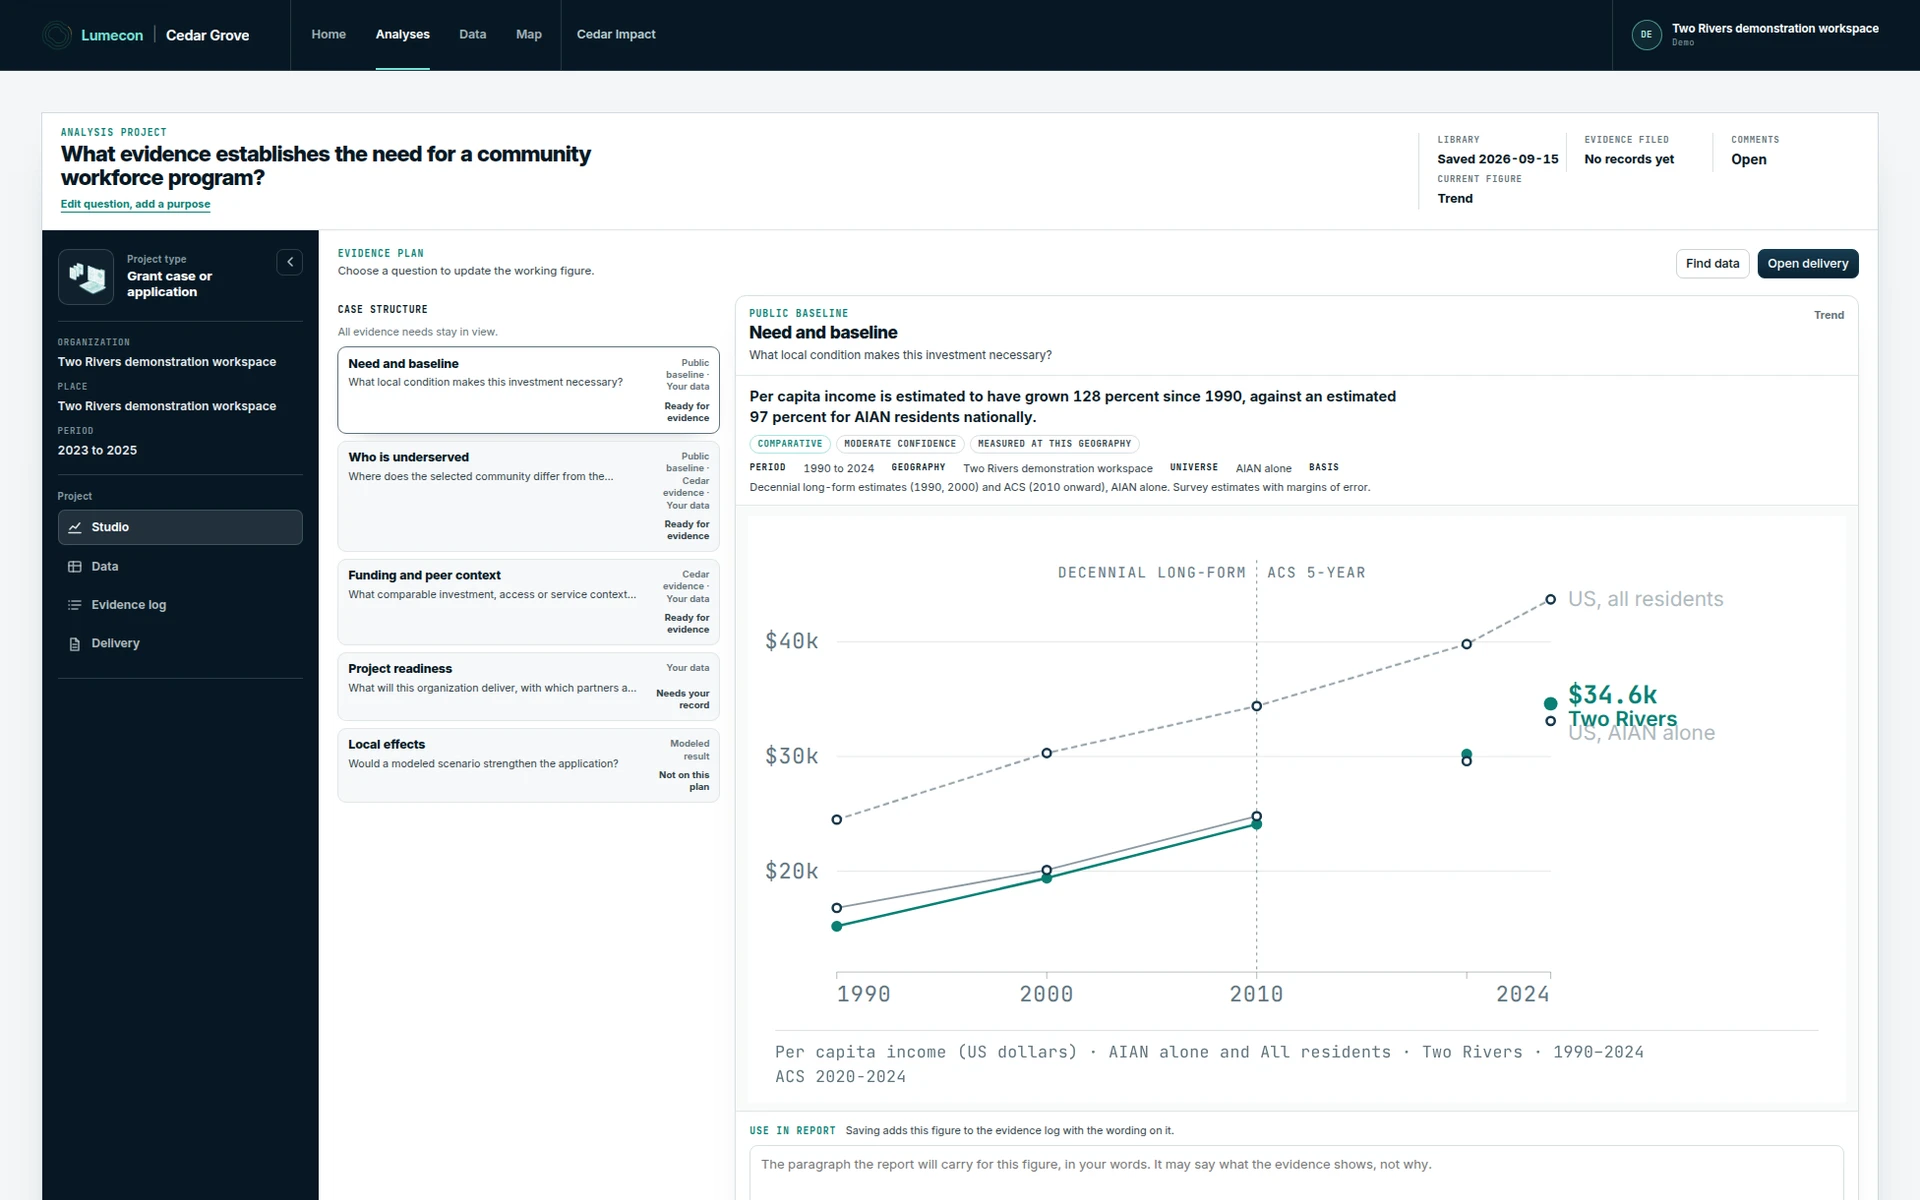
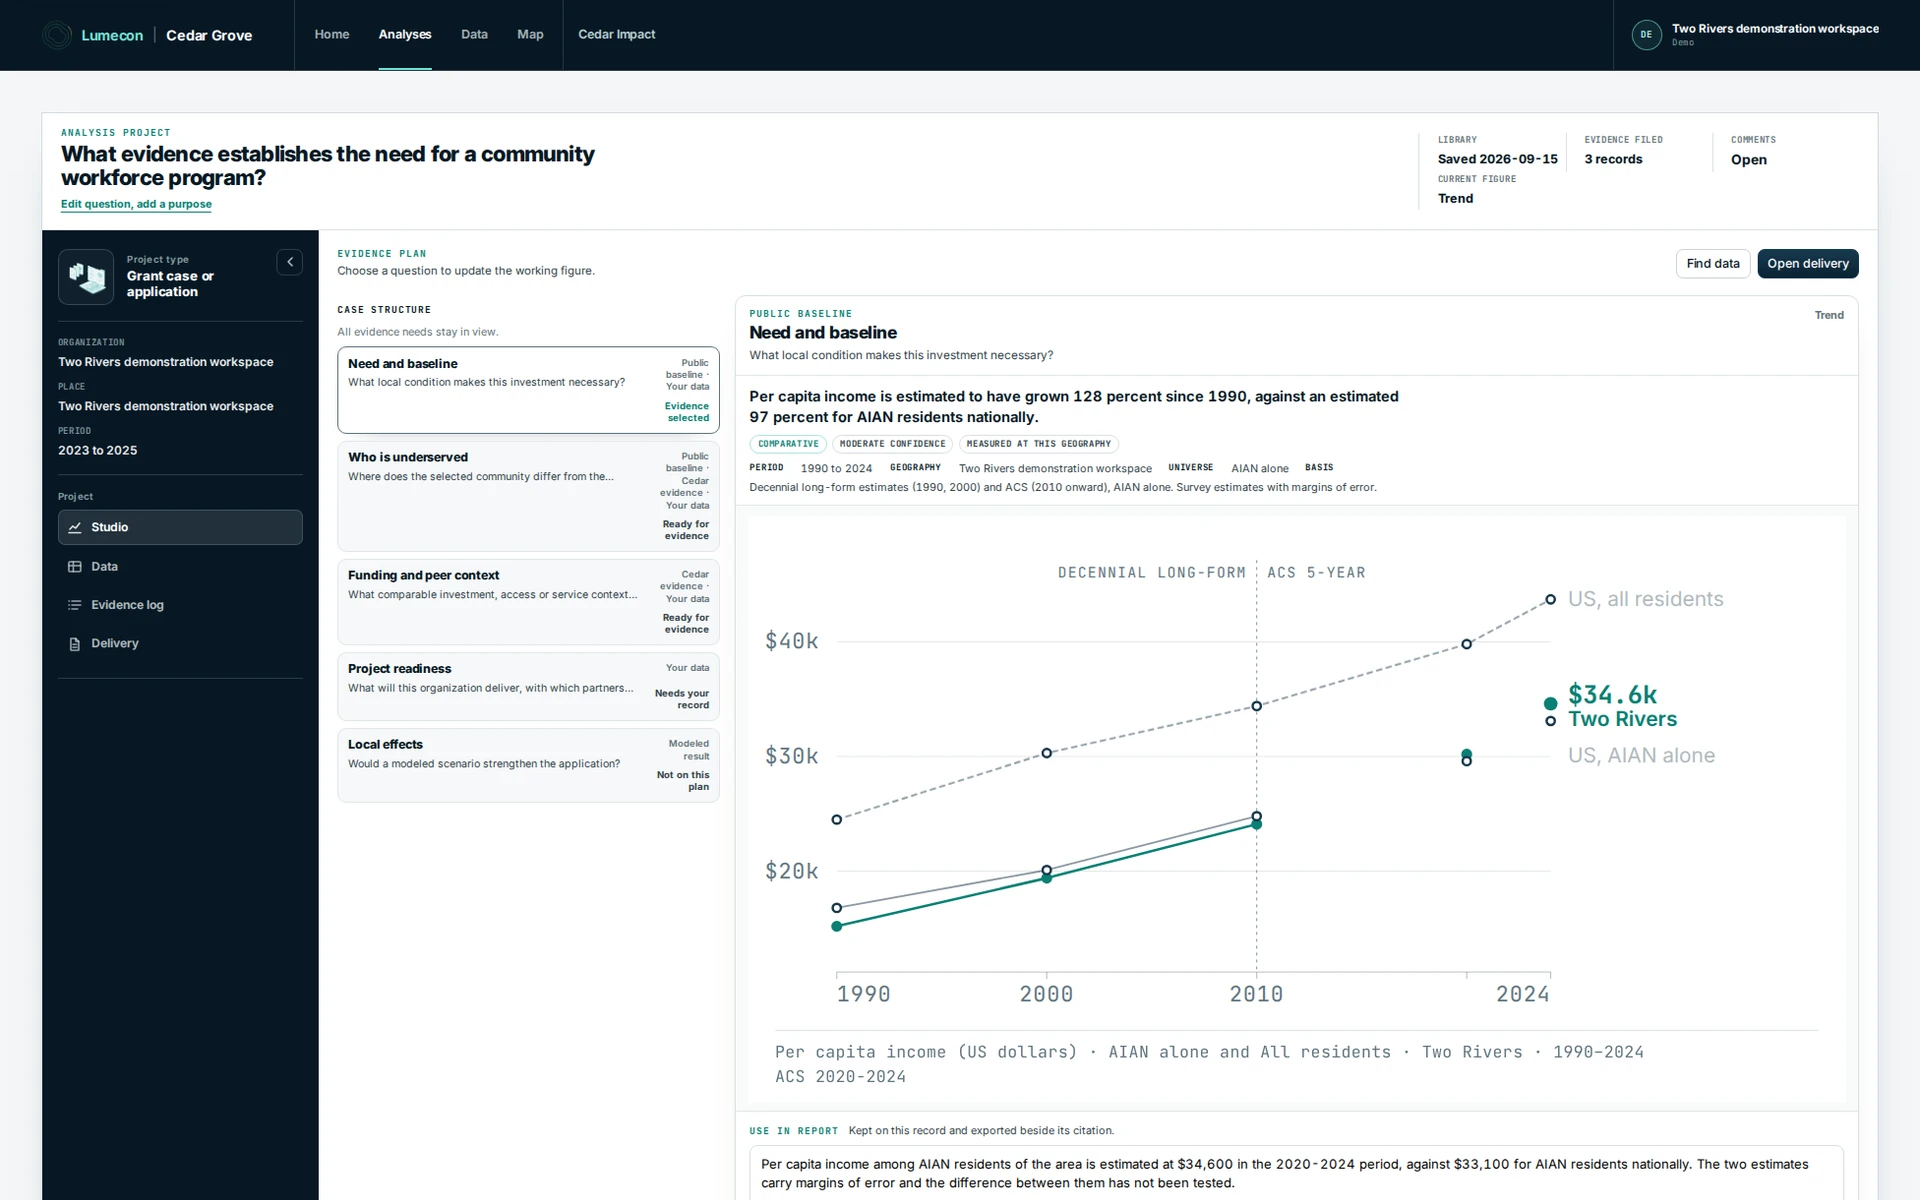
Cedar Grove page: the four captures are four surfaces, the frames stay round, and the home tour is Cedar Impact's
The captures. The map frame is recaptured with a measure selected: the
map filled by labor force participation, a readout anchored to a geography,
the legend with its breakpoints and count, and the same reading in the
context card. The last act was the bottom half of the worktable, which put
the one per-capita-income chart on the page twice as if it were two
products; it is the evidence log now (grove-record), a different surface,
with four filed records carrying their layer, source, period, geography,
role, claim class and limitation, three of them pinned and placed under a
report requirement. The hero and the home frame are recaptured from the
same session, so the trend figure's end labels no longer collide. Every
caption still says "Shown with sample data." and the manifest is the one
the capture wrote.

The corners. Every frame is 14px on the product pages and the owner still
saw square ones. `overflow: hidden` with a border radius rounds a frame in
most engines and not in every state: a frame that lifts on hover is
transformed, and WebKit has been known to drop the clipping for the
duration. So the frames are cut with a clip-path as well, which survives a
transform everywhere, and the picture inside carries the frame's radius on
its own corners, top corners only where a caption sits under it. One
variable, --shot-radius, keeps the frame, its clip and its picture in step,
and /cedar sets it to its own panel radius so nothing there changes.
[…]

diff --git a/tests/smoke.spec.ts b/tests/smoke.spec.ts
@@ -1418,19 +1418,19 @@ test('cedar grove is named on the homepage, /cedar and /pricing beside its sibli
   // not caught up to it. Each names it exactly, in the place the sibling
   // products already appear, with the sibling's own treatment.
 
-  // Homepage: a tour row carrying the product label, the same row and label
-  // the Cedar Impact rows use, with one of Grove's own captures.
+  // Homepage: the product tour is Cedar Impact's, and Grove is not a row in
+  // it. It was, for a while, and a Grove frame under a heading about Impact's
+  // results read as a fourth Impact surface. Grove is named on the homepage
+  // by the nav and the footer, which the product-family test below covers.
   await page.goto('/', { waitUntil: 'domcontentloaded' });
-  const groveRow = page.locator('#tour-grove');
-  await expect(groveRow).toHaveCount(1);
-  await expect(groveRow.locator('.tour-row__product')).toHaveText('Cedar Grove');
-  await expect(groveRow.locator('img')).toHaveAttribute('src', '/app/grove-evidence.webp');
+  await expect(page.locator('#tour-grove')).toHaveCount(0);
   await expect(page.locator('.tour-row .tour-row__product')).toHaveText([
     'Cedar Impact',
     'Cedar Impact',
     'Cedar Impact',
-    'Cedar Grove',
   ]);
+  await expect(page.locator('.tour-row img[src^="/app/grove-"]')).toHaveCount(0);
+  await expect(page.locator('nav a[href="/cedar-grove"]').first()).toBeAttached();
 
   // /cedar: the act that names the surfaces Cedar works across names Grove
   // beside Commons, and only for what Cedar does there: read the three
@@ -1492,6 +1492,54 @@ test('cedar grove shows four landscape captures, each stating its own box', asyn
   // fifth of its authored size, and the lightbox is the only route back.
   await expect(page.locator('.grovepg-hero__shot[data-zoom]')).toHaveCount(1);
   await expect(page.locator('.grovetour .tour-row__shot[data-zoom]')).toHaveCount(3);
+
+  // Four different surfaces. For a while two of them were the top and the
+  // bottom of one worktable, which put the same per-capita-income chart on
+  // the page twice; the last act is the evidence log now.
+  expect(new Set(frames.map((frame) => frame.src)).size).toBe(4);
+  expect(frames.map((frame) => frame.src)).toContain('/app/grove-record.webp');
+  expect(frames.map((frame) => frame.src)).not.toContain('/app/grove-evidence.webp');
+});
+
+test('every screenshot frame is cut with rounded corners, on every page that shows one', async ({
+  page,
+}) => {
+  // The owner saw square corners on the Cedar Grove captures. `overflow:
+  // hidden` with a border radius rounds a frame in most engines and not in
+  // every state: a frame that lifts on hover is transformed, and WebKit has
+  // been known to drop the clipping for the duration. So the frames are cut
+  // with a clip-path as well, which survives a transform everywhere, and
+  // the picture inside carries the radius on its own corners. This reads
+  // the computed styles, which is what a screenshot cannot see.
+  for (const path of ['/cedar-grove', '/', '/cedar']) {
+    await page.goto(path, { waitUntil: 'domcontentloaded' });
+    const frames = page.locator('.tour-row__shot, .grovepg-hero__shot');
+    const count = await frames.count();
+    expect(count, `${path} shows frames`).toBeGreaterThan(0);
+    const cut = await frames.evaluateAll((nodes) =>
+      nodes.map((node) => {
+        const frame = getComputedStyle(node);
+        const img = node.querySelector('img');
+        return {
+          radius: frame.borderRadius,
+          overflow: frame.overflow,
+          clip: frame.clipPath,
+          img: img ? getComputedStyle(img).borderRadius : null,
+        };
+      }),
+    );
+    for (const frame of cut) {
+      // The product frame radius, or larger where a page rounds its own
+      // frames more (/cedar uses its panel radius); never square.
+      expect(parseFloat(frame.radius), path).toBeGreaterThanOrEqual(14);
+      expect(frame.overflow, path).toBe('hidden');
+      // The clip and the picture follow the frame's own radius exactly. A
+      // picture with a caption under it rounds its top corners only, so the
+      // caption meets it without a sliver of frame between the two.
+      expect(frame.clip, path).toBe(`inset(0px round ${frame.radius})`);
+      expect(frame.img, path).toMatch(new RegExp(`^${frame.radius}( ${frame.radius} 0px 0px)?$`));
+    }
+  }
 });
 
 test('cedar grove opens on the house product hero, like the other product pages', async ({

diff --git a/src/styles/grove-page.css b/src/styles/grove-page.css
@@ -103,6 +103,31 @@
   width: 100%;
   height: auto;
 }
+/* The corners, three ways, so the frame is rounded whatever the browser makes
+   of it. `overflow: hidden` on a frame that also lifts on hover (a transform)
+   is the one combination WebKit has been known to render square: the
+   clipping is dropped while the transform is live. So the frame is also cut
+   with a clip-path, which every engine honours through a transform, and the
+   picture and caption carry the frame's radius on their own outer corners
+   besides, so the corner is round even where no clipping applies at all. The
+   picture keeps square bottom corners while a caption sits under it, or a
+   sliver of frame shows between the two. */
+.grovepg-hero__shot,
+.grovetour .tour-row__shot {
+  clip-path: inset(0 round var(--radius-frame));
+}
+.grovepg-hero__shot > img,
+.grovetour .tour-row__shot > img {
+  border-radius: var(--radius-frame);
+}
+.grovepg-hero__shot:has(figcaption) > img,
+.grovetour .tour-row__shot:has(figcaption) > img {
+  border-radius: var(--radius-frame) var(--radius-frame) 0 0;
+}
+.grovepg-hero__shot figcaption,
+.grovetour .tour-row__shot figcaption {
+  border-radius: 0 0 var(--radius-frame) var(--radius-frame);
+}
 @media (max-width: 980px) {
   .grovepg-hero .meth-w {
     grid-template-columns: 1fr;

diff --git a/src/styles/tour.css b/src/styles/tour.css
@@ -174,9 +174,13 @@
   max-width: 72ch;
 }
 .tour-row__shot {
+  /* One radius for the frame, its clip and the picture inside it. A page
+     that rounds its frames differently (/cedar uses the panel radius) sets
+     this variable, and the three stay in step. */
+  --shot-radius: var(--radius-frame);
   margin: 0;
   border: 1px solid var(--rule);
-  border-radius: var(--radius-frame);
+  border-radius: var(--shot-radius);
   overflow: hidden;
   background: var(--white);
   box-shadow: var(--shadow-frame);
@@ -191,6 +195,15 @@
   width: 100%;
   aspect-ratio: auto;
   height: auto;
+  /* The picture rounds its own corners as well as being clipped by the frame:
+     a frame that lifts on hover is transformed, and WebKit has been known to
+     drop `overflow: hidden` clipping for the duration of a transform, which
+     showed these captures square. The frame is clipped by a clip-path too,
+     which survives a transform in every engine. */
+  border-radius: var(--shot-radius);
+}
+.tour-row__shot {
+  clip-path: inset(0 round var(--shot-radius));
 }
 
 @media (max-width: 880px) {

diff --git a/src/styles/cedar-page.css b/src/styles/cedar-page.css
@@ -186,6 +186,7 @@
 }
 .cedarpg-acts .tour-row .tour-row__shot,
 .cedarpg-acts .tour-row--flip .tour-row__shot {
+  --shot-radius: var(--radius-panel);
   margin-inline: 0;
   border: 1px solid var(--rule);
   border-radius: var(--radius-panel);
